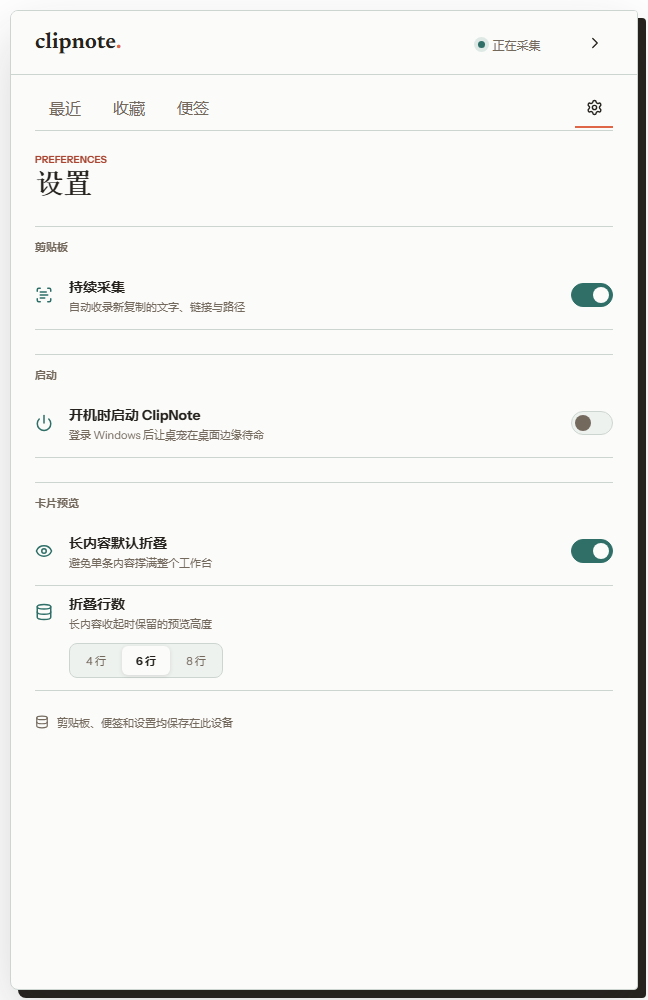
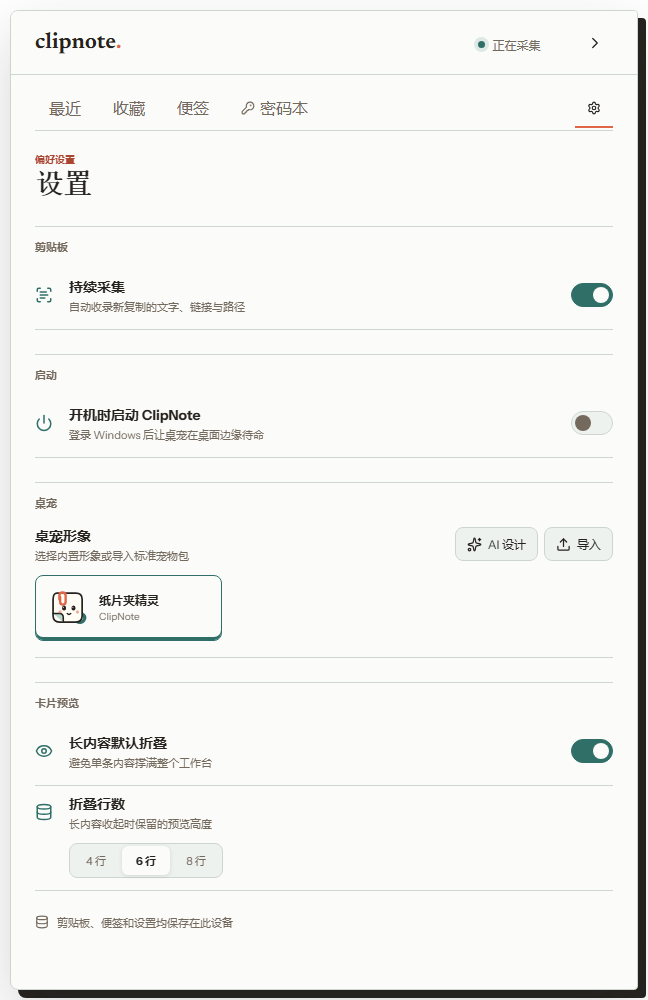
chore: prepare ClipNote v0.3.0 release

diff --git a/CHANGELOG.md b/CHANGELOG.md
@@ -1,0 +1,23 @@
+# 更新日志
+
+## 0.3.0 - 2026-07-15
+
+### 新增
+
+- 标准桌宠包导入、校验、选择、预览与删除。
+- AI 形象工坊，支持提示词、可选参考图和自动动画图集组装。
+- OpenAI API Key 使用 Windows 凭据管理器保存。
+- 本地加密密码本，支持条目搜索、生成密码、显隐、编辑与删除。
+- 密码本主密码修改、闲置自动锁定与窗口内容保护。
+- 密码安全复制：阻止自身采集、关闭 Windows 剪贴板历史与云同步，并在 30 秒后按条件清除。
+
+### 改进
+
+- 设置页桌宠区域升级为紧凑画廊，并提供 AI 设计入口。
+- 收起状态继续保持 56 x 56 的轻量桌宠形态。
+- 所有新增界面统一使用中文文案。
+
+## 0.2.0
+
+- 新增原创纸片夹桌宠、位置记忆与开机启动。
+- 修复持续采集可能干扰系统粘贴的问题。